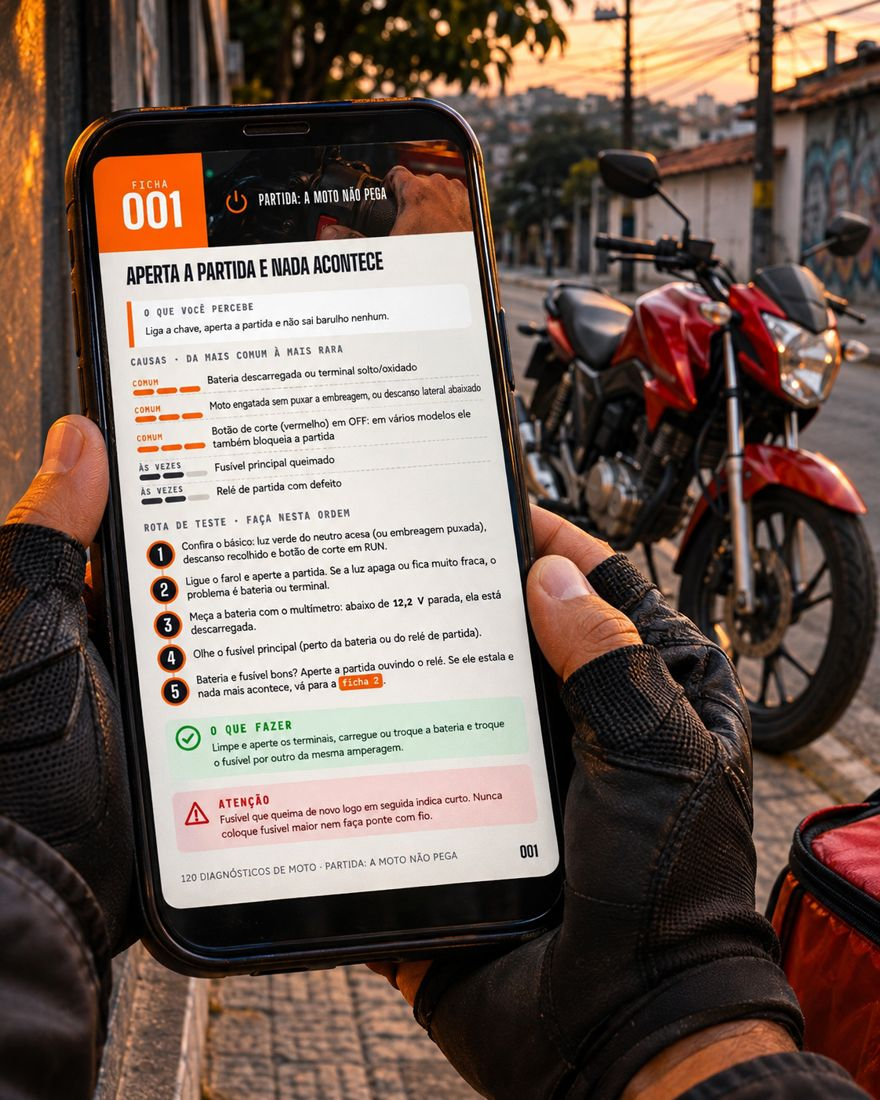
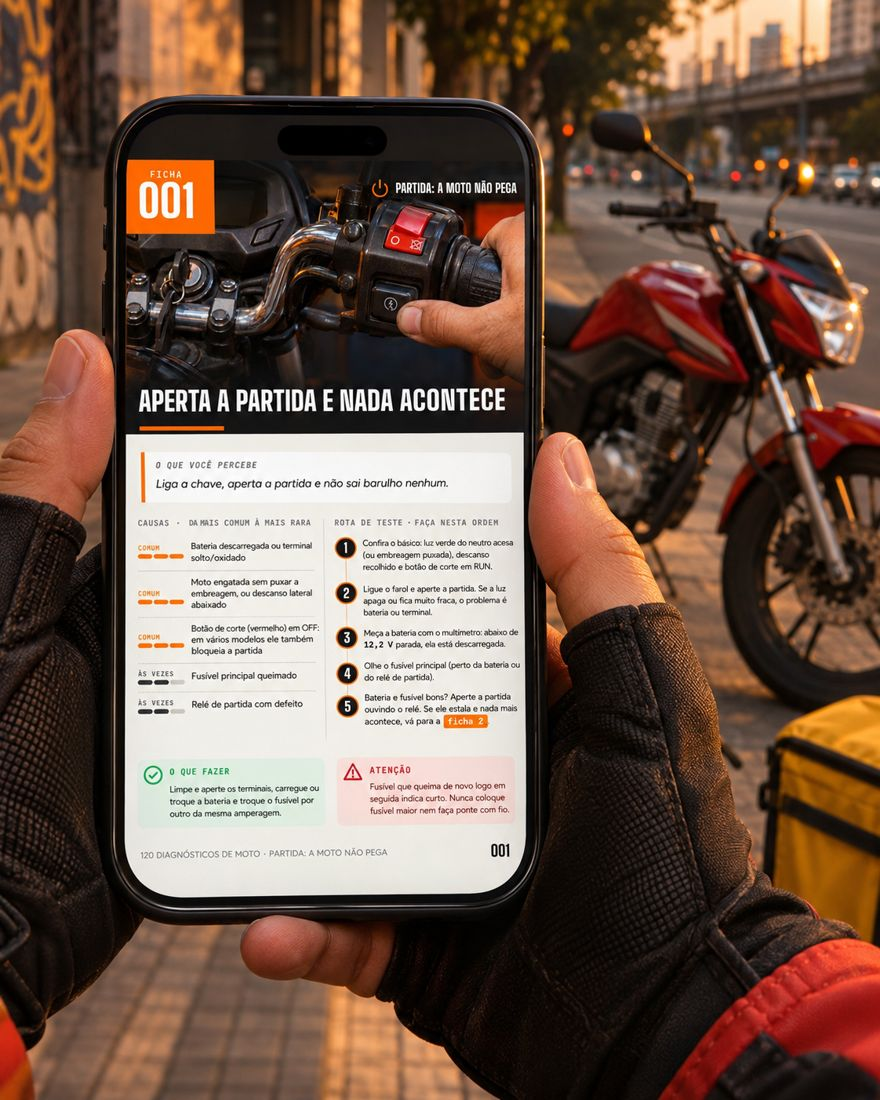
Mockups e paginas da revista

diff --git a/index.html b/index.html
@@ -51,7 +51,7 @@ section{padding:56px 0}
 .car h2{color:#fff}
 .trilho{display:flex;gap:14px;overflow-x:auto;scroll-snap-type:x mandatory;padding:6px 20px 18px;-webkit-overflow-scrolling:touch;scrollbar-width:none}
 .trilho::-webkit-scrollbar{display:none}
-.trilho img{flex:0 0 74%;max-width:330px;scroll-snap-align:center;border-radius:8px;box-shadow:0 14px 30px rgba(0,0,0,.45);cursor:zoom-in}
+.trilho img{flex:0 0 78%;max-width:360px;scroll-snap-align:center;border-radius:8px;box-shadow:0 14px 30px rgba(0,0,0,.45);cursor:zoom-in}
 .dica{font-size:13px;color:#A8AEB8;text-align:center}
 /* BENEFÍCIOS */
 .cards{display:grid;gap:12px}
@@ -112,7 +112,7 @@ footer{background:var(--asf);color:#8A9099;font-size:13px;padding:34px 0 90px;te
 footer a{color:#C9CDD4}
 .foto{display:block;width:100%;height:auto;border-radius:14px;box-shadow:0 14px 34px rgba(0,0,0,.28)}
 .hero .mock.foto{margin:8px 0 10px}
-.uso .duo{display:grid;grid-template-columns:.8fr 1.2fr;gap:10px;align-items:center;margin-bottom:14px}
+.uso .duo{display:grid;grid-template-columns:1fr 1fr;gap:10px;align-items:center;margin-bottom:14px}
 .uso .duo img{height:100%;object-fit:cover}
 .ad div img{width:calc(100% + 28px);margin:-16px -14px 12px;border-radius:14px 14px 0 0;aspect-ratio:3/2;object-fit:cover}
 .modelos{display:flex;flex-wrap:wrap;gap:8px;margin:14px 0 8px}
@@ -132,10 +132,10 @@ footer a{color:#C9CDD4}
 
 <header class="hero">
   <div class="w">
-    <span class="kick">Guia de consulta para quem depende da moto</span>
+    <span class="kick">Revista digital ilustrada para quem depende da moto</span>
     <h1><span class="n">120</span>diagnósticos de moto <em>por sintoma</em></h1>
     <p class="sub">Antes de gastar com peça ou oficina, descubra <b>o que verificar primeiro</b>. Uma página por defeito, com a rota de teste na ordem certa.</p>
-    <img class="mock foto" src="img/mock_principal.jpg" alt="Revista 120 Diagnósticos de Moto impressa na bancada e aberta no celular, com uma CG 160 ao fundo" width="1100" height="733">
+    <img class="mock foto" src="img/mock_principal.jpg" alt="Revista Diagnóstico de Moto impressa na bancada e aberta no celular, com uma CG 160 ao fundo" width="1100" height="733">
     <div class="chips"><span>Revista digital ilustrada</span><span>Carburada e injetada</span><span>120 fotos de teste</span><span>Funciona no celular</span></div>
     <a class="btn" href="#planos">Quero o meu guia</a>
     <p class="miudo">Acesso na hora no seu e-mail · Pagamento único</p>
@@ -158,16 +158,16 @@ footer a{color:#C9CDD4}
 <section class="car">
   <div class="w"><span class="kick" style="color:var(--ama)">Veja por dentro</span><h2>Uma página<br>por defeito</h2></div>
   <div class="trilho" id="trilho">
-    <img src="img/f001.jpg" alt="Ficha 001: aperta a partida e nada acontece" loading="lazy">
-    <img src="img/indice.jpg" alt="Índice por sintoma" loading="lazy">
-    <img src="img/f027.jpg" alt="Ficha 027: falha em alta" loading="lazy">
-    <img src="img/f042.jpg" alt="Ficha 042: luz da injeção piscando" loading="lazy">
-    <img src="img/f055.jpg" alt="Ficha 055: como saber se a moto está carregando" loading="lazy">
-    <img src="img/f014.jpg" alt="Ficha 014: morre quando solta o acelerador" loading="lazy">
-    <img src="img/f067.jpg" alt="Ficha 067: tec-tec no cabeçote" loading="lazy">
-    <img src="img/f091.jpg" alt="Ficha 091: embreagem patinando" loading="lazy">
-    <img src="img/f101.jpg" alt="Ficha 101: corrente e folga" loading="lazy">
-    <img src="img/f107.jpg" alt="Ficha 107: freio a disco fraco" loading="lazy">
+    <img src="img/r_capa.jpg" alt="Capa da revista Diagnóstico de Moto" loading="lazy">
+    <img src="img/r_f001.jpg" alt="Ficha 001: aperta a partida e nada acontece" loading="lazy">
+    <img src="img/r_f003.jpg" alt="Ficha 003: motor de partida gira fraco, multímetro marcando 9,8 V" loading="lazy">
+    <img src="img/r_f012.jpg" alt="Ficha 012: só pega no tranco, teste de carga com 12,1 V" loading="lazy">
+    <img src="img/r_f014.jpg" alt="Ficha 014: marcha lenta em 1.400 rpm" loading="lazy">
+    <img src="img/r_f015.jpg" alt="Ficha 015: folga do acelerador de 4 mm" loading="lazy">
+    <img src="img/r_indice.jpg" alt="Índice por sintoma" loading="lazy">
+    <img src="img/r_abre.jpg" alt="Abertura do sistema de falhas" loading="lazy">
+    <img src="img/r_f029.jpg" alt="Ficha 029: cabo de vela trincado" loading="lazy">
+    <img src="img/r_f035.jpg" alt="Ficha 035: folga da corrente" loading="lazy">
   </div>
   <p class="dica">Arraste para o lado · toque para ampliar</p>
 </section>
@@ -176,8 +176,8 @@ footer a{color:#C9CDD4}
   <div class="w">
     <span class="kick">Do lado da moto</span>
     <h2>No celular<br><em>ou impresso</em></h2>
-    <div class="duo"><img class="foto" src="img/mao_celular.jpg" alt="Mãos segurando o celular com uma ficha aberta ao lado de uma CG 160" width="880" height="1100" loading="lazy"><img class="foto" src="img/folheando.jpg" alt="Fichas impressas em cima do banco da moto" width="1100" height="733" loading="lazy"></div>
-    <p>Cada ficha tem a foto do teste, as causas por probabilidade e a rota na ordem certa. Abre no celular sem internet depois de baixar, ou imprime e deixa na garagem.</p>
+    <div class="duo"><img class="foto" src="img/mao_celular.jpg" alt="Mãos segurando o celular com uma ficha aberta ao lado de uma CG 160" width="880" height="1100" loading="lazy"><img class="foto" src="img/r_f012.jpg" alt="Página da ficha 012 com a foto do teste de carga" width="760" height="1075" loading="lazy"></div>
+    <p>Cada ficha é uma página de revista: a foto do teste com a leitura real, as causas por probabilidade e a rota na ordem certa. Abre no celular sem internet depois de baixar, ou imprime e deixa na garagem.</p>
   </div>
 </section>
 
